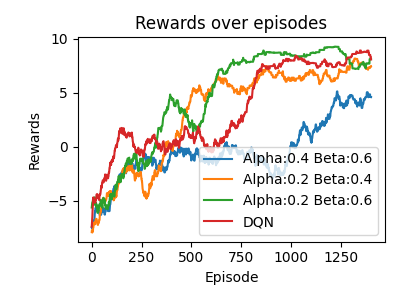
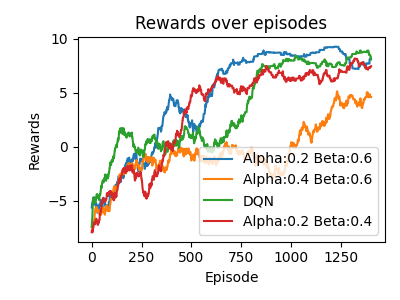
better plots

diff --git a/src/hockey-env/plots_for_report.py b/src/hockey-env/plots_for_report.py
@@ -95,8 +95,8 @@ def plot_winrate(agents, name, opponent_name, opponent_idx, chunk_size=200, game
 
 
 
-plot_rewards([(tournament_agent_path, "4 Steps"),(n_step_6_path, "6 Steps"),(n_step_1_path, "1 Step") ], episodes = int(5000), name = "rewards_n_steps")
-plot_rewards([(prio_alpha_04, "Alpha:0.4 Beta:0.6"),(prio_alpha_02_beta_04, "Alpha:0.2 Beta:0.4"), (tournament_agent_path, "Alpha:0.2 Beta:0.6"), (classic_dqn, "DQN") ], episodes = int(1500), name = "rewards_alpha_beta")
+plot_rewards([(tournament_agent_path, "4 Steps"),(n_step_6_path, "6 Steps"),(n_step_1_path, "1 Step"), ], episodes = int(5000), name = "rewards_n_steps")
+plot_rewards([(tournament_agent_path, "Alpha:0.2 Beta:0.6"),(prio_alpha_04, "Alpha:0.4 Beta:0.6"), (classic_dqn, "DQN"),(prio_alpha_02_beta_04, "Alpha:0.2 Beta:0.4") ], episodes = int(1500), name = "rewards_alpha_beta")
 plot_rewards([(tournament_agent_path, "4 N steps with PER "),(no_prio_n_4, "4 N steps without PER"), (classic_dqn, "DQN")], episodes = int(2000), name = "rewards_no_prio")
 
 plot_rewards([(tournament_agent_path, "PER + 4-Step"),(Combined_n_4, "Combined"), (classic_dqn, "DQN")], episodes = int(2000), name = "rewards_vs_weak")
@@ -104,7 +104,7 @@ plot_rewards([(Combined_n_4,"50 games"),(Combined_n_4_ten_games, "10 games")], e
 
 plot_rewards([(bigger_lr, "bigger_lr"),(bigger_nn, "bigger_nn"), (Combined_n_4, "Combined_n_4")], episodes = int(2000), name = "rewards_bigger_lr_nn")
 
-plot_winrate([(tournament_agent_path, "4 Steps"),(n_step_6_path, "6 Steps"),(n_step_1_path, "1 Step") ], opponent_name=  "Weak", opponent_idx = 1, name = "win_rate_n_steps")
+plot_winrate([(tournament_agent_path, "4 Steps"),(n_step_6_path, "6 Steps"), (classic_dqn, "DQN"),(n_step_1_path, "1 Step") ], opponent_name=  "Weak", games = 10000, opponent_idx = 1, name = "win_rate_n_steps")
 plot_winrate([(tournament_agent_path, "Alpha:0.2 Beta:0.6"),(prio_alpha_04,  "Alpha:0.4 Beta:0.6"),(prio_alpha_02_beta_04,  "Alpha:0.2 Beta:0.4"),  (classic_dqn, "DQN") ], games = 10000, opponent_name=  "Weak", opponent_idx = 1, name = "win_rate_alpha_beta")
 plot_winrate([(tournament_agent_path, "PER + 4-Step"),(Combined_n_4, "Combined"), (classic_dqn, "DQN")], opponent_name=  "Weak", opponent_idx = 1, name = "win_rate_vs_weak", games = 12000)
 plot_winrate([(Combined_n_4,"50 games"),(Combined_n_4_ten_games, "10 games")], opponent_name=  "Weak", opponent_idx = 1, name = "win_rate_combined_vs_ten_games", games=8000)
